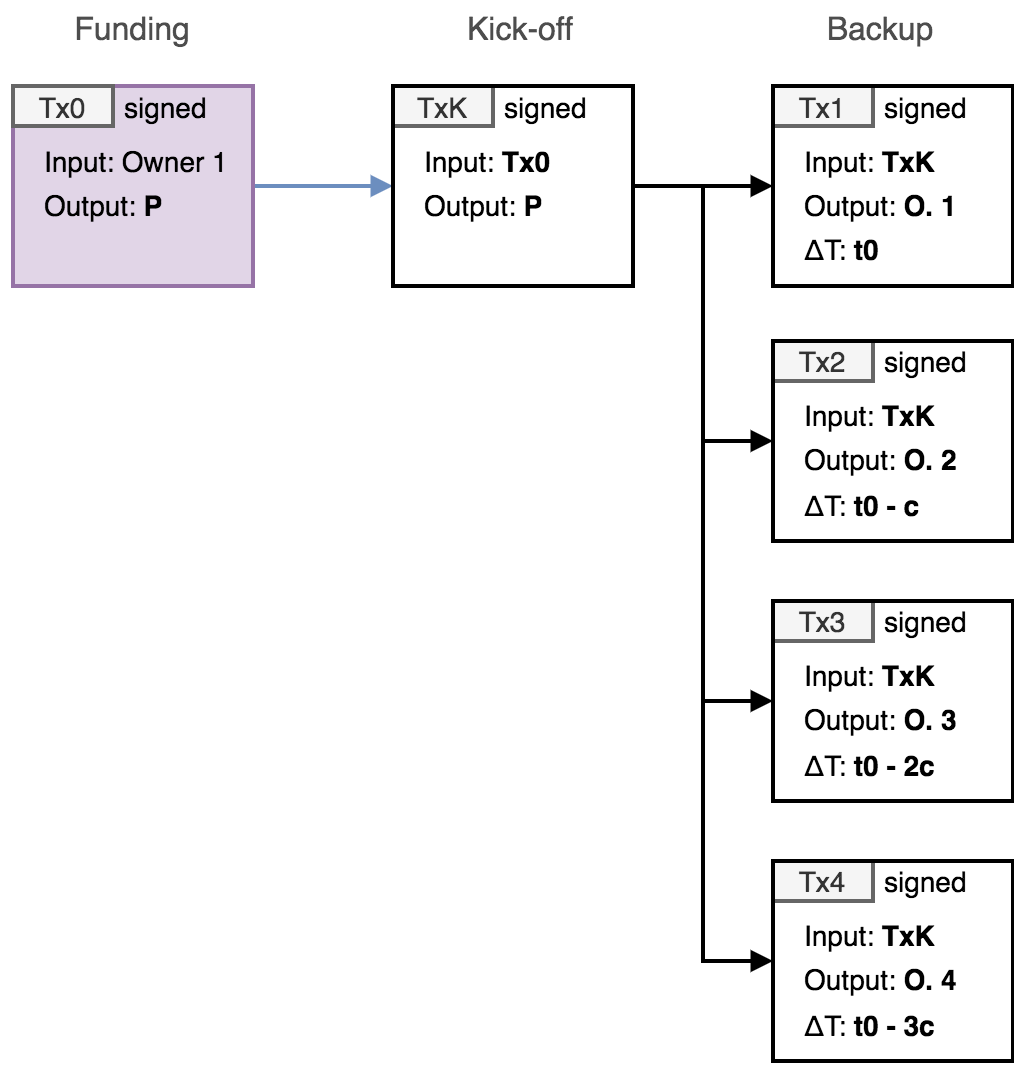
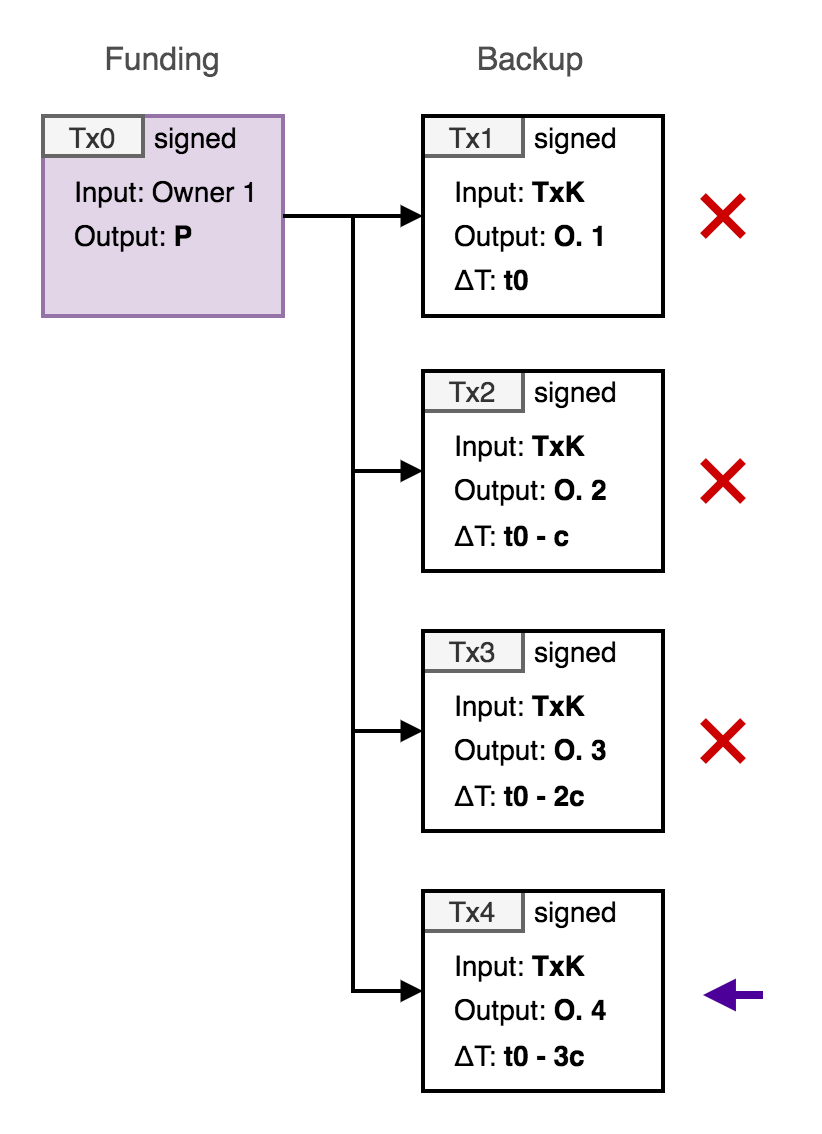
spec update

Changed region(s): [[0.0, 0.0, 1.0, 1.0]]

diff --git a/doc/statechains.md b/doc/statechains.md
@@ -1,4 +1,4 @@
-# Mercury statechain protocol
+# Mercury statechain protocol specification
 
 This document describes the specification and operation of the Mercury **statechain** [1] system to tranfer ownership of Bitcoin (or Elements based) *unspent transaction outputs* (UTXOs) between parties without performing on-chain transactions. The ability to perform this transfer without requiring the confirmation (mining) of on-chain transactions has several advantages in a variety of different applications:
 
@@ -12,44 +12,32 @@ This functionality requires a trusted third party - refered to as the *statechai
 
 A UTXO is the fundamental object that defines value and ownership in a cryptocurrency such as Bitcoin. A UTXO is identified by a transaction ID (`TxID`) and output index number (`n`) and has two properties: 1. A value (in BTC) and 2. Spending conditions (defined in Script). The spending conditions can be arbitrarily complex (within the limits of the consensus rules), but is most commonly defined by a single public key (or public key hash) and can only be spent by transaction signed with the corresponding public key. This is known as a pay-to-public-key-hash output (P2(W)PKH). Other more complex spending conditions include multisig outputs (where spending transactions need to be signed by `m` public keys where `n >= m` are specified in the spending conditions) and time-locked and hash-locked outputs (inlcuding HTLCs as utilised by the Lightning Network and DLCs). 
 
-The statechain model described here can be used to transfer the ability to sign a single public key spending condition or one part of a 2-of-2 multisig, allowing for the transfer (novation) of DLC counterparty positions or Lightning channels. 
+The statechain model described here can be used to transfer the ability to sign a single public key spending condition between parties, or one part of a 2-of-2 multisig, allowing for the transfer (novation) of DLC counterparty positions or Lightning channels. 
 
 ## P2PKH output transfer
 
-The simplest function of the Mercury system is to enable the transfer the ownership of individual UTXOs controlled by a single public key `P` from one party to another without an on-chain (Bitcoin) transaction. The SE facilitates this change of ownership, but has no way to seize, confiscate or freeze the output. To enable this, the private key for `P` is shared between the SE and the owner, such that no party ever has knowledge of the full private key (which is `s1*o1` where `s1` is the SE private key share, and `o1` is the owner key share) and so cooperation of the owner is required to spend the UTXO. However, by sharing the secret key in this way, the SE can change its key share (`s1 -> s2`) so that it combines with a new owner key share (`o2`) with the cooperation of the original owner without changing the full key (i.e. `s1*o1 = s2*o2`) all without any party revealing their key shares or learning the full key. The exclusive control of the UTXO then passes to the new owner without an on-chain transaction, and the SE only needs to be trusted to follow the protocol and delete/overwrite the key share corresponding to the previous owner. 
+The simplest function of the Mercury system is to enable the transfer the ownership of individual UTXOs controlled by a single public key `P` from one party to another without an on-chain (Bitcoin) transaction (or change in the spending condition). The SE facilitates this change of ownership, but has no way to seize, confiscate or freeze the output. To enable this, the private key (`s`) for `P` (where `P = s.G`) is shared between the SE and the owner, such that neither party ever has knowledge of the full private key (which is `s = s1*o1` where `s1` is the SE private key share, and `o1` is the owner key share) and so cooperation of the owner and SE is required to spend the UTXO. However, by sharing the secret key in this way, the SE can change its key share (`s1 -> s2`) so that it combines with a new owner key share (`o2`) with the cooperation of the original owner, but without changing the full key (i.e. `s1*o1 = s2*o2`) all without any party revealing their key shares or learning the full key. The exclusive control of the UTXO then passes to the new owner without an on-chain transaction, and the SE only needs to be trusted to follow the protocol and delete/overwrite the key share corresponding to the previous owner. 
 
-This key update/transfer mechanism can additionally be combined with a system of *backup* transactions which can be used to claim the value of the UTXO by the current owner in the case the SE does not cooperate or has disappeared. The backup transactions are cooperatively signed by the owners and the SE at the point of transfer, and consist of a *kickoff* transaction (which initiates the timelocks) which can be spent by a second transaction with a relative time-lock (using the `nSequence` field as described in BIP68 [2]) paying to an owner generated address [3]. Each new owner is given the same kick-off transaction and a second signed transaction (paying to the new owner address) with a lower `nSequence` number than the previous owner (allowing them to claim the output of the kickoff transaction before any previous owner). 
-
-<br><br>
-<p align="center">
-<img src="images/fig1.png" align="middle" width="440" vspace="20">
-</p>
-
-<p align="center">
-  <b>Fig. 1</b>: Schematic of confirmed funding transaction, and off-chain signed kick-off transaction and backup transactions for a sequence of 4 owners. 
-</p>
-<br><br>
-
-As each previous owner will posses a signed copy of the kickoff transaction, any of these old owners can broadcast it to initiate the backup process, forcing the close of the UTXO and presenting a DoS risk (even though they will not be able to steal the funds). To provide an incentive against this, an anyone-can-spend (OP_TRUE) output can be added to the kickoff transaction (with a dust limit amount) and zero miner fee: this means that for an owner (current or old) to broadcast (and confirm) the kickoff transaction, they must at the same time send a second transaction that spends the anyone-can-spend output and that has sufficient fee to pay for both transactions (via Child Pays For Parent - CPFP). 
+This key update/transfer mechanism is additionally be combined with a system of *backup* transactions which can be used to claim the value of the UTXO by the current owner in the case the SE does not cooperate or has disappeared. The backup transaction is cooperatively signed by the current owner and the SE at the point of transfer, paying to an address controlled by the new owner. To prevent a previous owner (i.e. not the current owner) from broadcasting their backup transaction and stealing the deposit, the `nLocktime` value of the transaction is set to a future specified block height. Each time the ownership of the UTXO is transfered, the `nLocktime` is decremented by a specified value, therefore enabling the current owner to claim the deposit before any of the previous owners. 
 
 <br><br>
 <p align="center">
-<img src="images/fig2.png" align="middle" width="440" vspace="20">
+<img src="images/fig1.png" align="middle" width="350" vspace="20">
 </p>
 
 <p align="center">
-  <b>Fig. 2</b>: Schematic of the kick-off transaction requiring an additional CPFP spending transaction paying fees. 
+  <b>Fig. 1</b>: Schematic of confirmed funding transaction, and off-chain signed backup transactions with decrementing nLocktime for a sequence of 4 owners. 
 </p>
 <br><br>
 
-The decrementing relative timelock backup mechanism limits the number of tranfers that can be made within a reasonable lock-out time. This limitation can be substantially improved using an 'invalidation tree' structure of sequential transactions as described in [3]. 
+The decrementing timelock backup mechanism limits the number of tranfers that can be made within a reasonable lock-out time, and will be specified and enforced by the SE. In order to ensure that the valid backup transaction is broadcast to the Bitcoin network at the correct time, and prevent expired owners from attmepting to steal funds, the SE operates multiple *watch* servers that monitor the block height and send user backup transactions when required. If the SE is shut down then the user is responsible for submitting backup transactions to the Bitcoin network at the correct time, and applications are available to do this automatically. 
 
 The life-cycle of a P2PKH deposit into the statechain, transfer and withdrawal is summarised as follows:
 
-1. The depositor (Owner 1) initiates a UTXO statechain with the SE by paying BTC to a P2PKH address where Owner 1 and the SE share the private key required to spend the UTXO. Additionally, the SE and the depositor can cooperate to sign a kick-off and backup transaction spending the UTXO to a relative timelocked transaction spending to an address controlled by Owner 1 which can be confirmed after the `nSequence` locktime in case the SE stops cooperating. 
-3. Owner 1 can verifiably transfer ownership of the UTXO to a new party (Owner 2) via a key update procedure that overwrites the private key share of SE that invalidates the Owner 1 private key and *activates* the Owner 2 private key share. Additionally, the transfer can incorporate the cooperative signing of a new backup transaction paying to an address controlled by Owner 2 which can be confirmed after an `nSequence` locktime, which is shorted (by an accepted confirmation interval) than the previous owner. 
-5. This transfer can be repeated multiple times to new owners as required (up until the most recent recovery relative locktime reaches a limit > 0). 
-6. At any time the most recent owner and SE can cooperate to sign a transaction spending the UTXO to an address of the most recent owner's choice (withdrawal). 
+1. The depositor (Owner 1) initiates a UTXO statechain with the SE by paying BTC to a P2PKH address where Owner 1 and the SE share the private key required to spend the UTXO. Additionally, the SE and the depositor can cooperate to sign a backup transaction spending the UTXO to a relative timelocked transaction spending to an address controlled by Owner 1 which can be confirmed after the `nLocktime` block height in case the SE stops cooperating. 
+3. Owner 1 can verifiably transfer ownership of the UTXO to a new party (Owner 2) via a key update procedure that overwrites the private key share of SE that invalidates the Owner 1 private key and *activates* the Owner 2 private key share. Additionally, the transfer can incorporate the cooperative signing of a new backup transaction paying to an address controlled by Owner 2 which can be confirmed after an `nLocktime` block height, which is shortened (by an accepted confirmation interval) than the previous owner. 
+5. This transfer can be repeated multiple times to new owners as required (up until the most recent recovery `nLocktime` reaches a lower limit determined by the current Bitcoin block height). 
+6. At any time the most recent owner and SE can cooperate to sign a transaction spending the UTXO to an address of the most recent owner's choice (i.e. withdrawal). 
 
 <br><br>
 <p align="center">
@@ -139,17 +127,15 @@ An owner wants to deposit an amount of BTC into the platform, and they request t
 3. The SE then generates a private key: `s1` (the SE private key share), calculates the corresponding public key and sends it to Owner 1: `S1 = s1.G`
 4. Both SE and Owner 1 then multiply the public keys they receive by their own private key shares to obtain the same shared public key `P` (which corresponds to a shared private key of `p = o1*s1`): `P = o1.(s1.G) = s1.(o1.G)`
 
-> The above key sharing scheme is the same as that used in the 2P ECDSA protocols [4,5]. The key generation routines of these existing 2P ECDSA implementations can be used in place of the above steps (which can include additional verification and proof steps). 
+> The above key sharing scheme is the same as that used in the 2P ECDSA protocols [4,5]. The key generation routines of these existing 2P ECDSA implementations can be used in place of the above steps (which include additional verification and proof steps). 
 
-5. Owner 1 creates a funding transaction (`Tx0`) to pay an amount `A` to the address corresponding to `P` (but doesn't sign it) [this transaction may also have an output for a fee `F` paid to the SE]. This defines the UTXO `TxID` (the outpoint), which is sent to the SE.
-6. The SE creates a *kick-off transaction* (`TxK`) which spends `Tx0` and pays `A-D` to `P` and `D` to `OP_TRUE` (where `D` is the dust limit) and has zero miner fee. 
-7. Owner 1 and SE cooperatively sign `TxK` via 2P ECDSA. Both parties save this transaction. 
-8. Owner 1 genertes `b1` (the backup private key) and computes `B1 = b1.G`. 
-9. Owner 1 genertes `c1` (the proof private key) and computes `C1 = c1.G`.
-9. Owner 1 creates a *backup transaction* (`Tx1`) that pays the `P` output of `TxK` to `B1`, and sets the `nSequence` to the maximum relative locktime `t0` (according to BIP68). 
-10. SE receives `Tx1` and `C1` from Owner 1 and verifies the `nSequence` field. Owner 1 and the SE then sign `Tx1` with shared key (`P`) via 2P ECDSA, which Owner 1 then saves. 
-11. Owner 1 then signs and broadcasts their deposit transaction `Tx0`. Once the transaction is confirmed, the deposit is completed. 
-12. The SE then adds the public key `C1` to leaf of the SMT at position TxID of `Tx0`. The root of the SMT is then attested to Bitcoin via the Mainstay protocol in slot `slot_id`. 
+5. Owner 1 genertes `b1` (the backup private key) and computes `B1 = b1.G`. 
+6. Owner 1 genertes `c1` (the proof private key) and computes `C1 = c1.G`.
+7. Owner 1 creates a funding transaction (`Tx0`) to pay an amount `A` to the address corresponding to `P` (but doesn't sign it) [this transaction may also have an output for a fee `F` paid to the SE]. This defines the UTXO `TxID` (the outpoint), which is sent to the SE.
+8. Owner 1 creates a *backup transaction* (`Tx1`) that pays the `P` output of `Tx0` to `B1`, and sets the `nLocktime` to the initial future block height `h0` (where `h0 = cheight + hinit`, `cheight` is the current Bitcoin block height and `hinit` is the specified initial locktime). 
+9. SE receives `Tx1` and `C1` from Owner 1 and verifies the `nLocktime` field. Owner 1 and the SE then sign `Tx1` with shared key (`P`) via 2P ECDSA, which Owner 1 then saves. 
+10. Owner 1 then signs and broadcasts their deposit transaction `Tx0`. Once the transaction is confirmed, the deposit is completed. 
+11. The SE then adds the public key `C1` to leaf of the SMT at position TxID of `Tx0`. The root of the SMT is then attested to Bitcoin via the Mainstay protocol in slot `slot_id`. 
 
 <br><br>
 <p align="center">
@@ -161,7 +147,7 @@ An owner wants to deposit an amount of BTC into the platform, and they request t
 </p>
 <br><br>
 
-This deposit protocol is designed so that no funds are lost if either party becomes uncooperative at any stage. The deposit is only paid to the shared public key once the kick-off and backup transactions are signed. 
+This deposit protocol is designed so that no funds are lost if either party becomes uncooperative at any stage. The deposit is only paid to the shared public key once the backup transaction is signed. 
 
 ### Transfer
 
@@ -173,17 +159,16 @@ Owner 1 wishes to transfer the value of the deposit `A` to a new owner (Owner 2)
 4. SE generates a random key `x1` and encrypts it with the Owner 2 statechain public key: `Enc(x1,C1)`
 5. `Enc(x1,C1)` is sent to Owner 1 who decrypts it with `c1` to learn `x1`: `Dec(x1,c1)`
 6. Owner 1 then computes `o1*x1` and encrypts it with the Owner 2 statechain public key (from the address): `Enc(o1*x1,C2)`
-7. Owner 1 creates a new *backup transaction* (`Tx2`) that pays the `P` output of `TxK` to `B2`, and sets the `nSequence` to the relative locktime `t0 - (n-1)*c` (according to BIP68) where `c` is the confirmation interval and `n` is the owner number (i.e. 2). 
-8. The SE receives `Tx2` and verifies the `nSequence` field corresponds to `t0 - (n-1)*c`. Owner 1 and the SE then sign `Tx2` with shared key (`P`) via 2P ECDSA, which Owner 1 then saves. 
+7. Owner 1 creates a new *backup transaction* (`Tx2`) that pays the `P` output of `Tx0` to `B2`, and sets the `nLocktime` to the relative locktime `h0 - (n-1)*c` where `c` is the confirmation interval and `n` is the owner number (i.e. 2). 
+8. The SE receives `Tx2` and verifies the `nLoctime` field corresponds to `h0 - (n-1)*c`. Owner 1 and the SE then sign `Tx2` with shared key (`P`) via 2P ECDSA, which Owner 1 then saves. 
 
 > The steps 3-8 only require interaction between the SE and owner 1, and can be performed at any time before the involvement of Owner 2 is required. 
 
 9. Owner 1 retrieves the UTXO statechain (ownership sequence) for `Tx0` and signs ownership to `C2` with private key `c1`: this is `SCTx1`
 10. Owner 1 then sends Owner 2 a message containing four objects:
-	a. `TxK`
-	b. `Tx2`
-	c. `SCTx1`
-	d. `Enc(o1*x1,C2)`
+	a. `Tx2`
+	b. `SCTx1`
+	c. `Enc(o1*x1,C2)`
 
 > At this point the Owner 1 has sent all the information required to complete the transfer to Owner 2 and is no longer involved in the protocol. Owner 2 verifies the correctness and validity of the four objects, and the payment is complete. Owner 1 can then complete the key update with the SE at any time. 
 
@@ -211,7 +196,7 @@ The SE key share update then proceeds as follows:
 </p>
 <br><br>
 
-> The SE can keep a database of backup transactions for the users, and broadcast them at the appropriate time in case the users are off-line. Alternatively this can be outsourced to a 'watchtower-like' third party. 
+> The SE keeps a database of backup transactions for the users, and broadcast them at the appropriate time in case the users are off-line. 
 
 ### Orderly Withdrawal
 
@@ -238,52 +223,6 @@ This would proceed as follows:
 
 > The owner must ensure they broadcast the backup transaction immediately after the timelock to prevent previous owners from claiming after longer timeouts. 
 
-### Backup attack
-
-Every previous owner of a statechain UTXO has a signed kick-off transaction, and a signed backup transaction with a longer `nSequence` timelock than the current owner. Any one of these previous owners can broadcast the kick-off transaction at any time in an attempt to steal the UTXO funds. So long as the current owner is watching the Bitcoin UTXO set (or has outsourced this to a watchtower), then the currrent owner will always be able to spend the kick-off output with their backup transaction before a previous owner. 
-
-However, this does present a mechanism for a previous owner to harrass the current owner and cause a denial of service. Past owners are incentivised against doing this, as the past owner has to pay twice for the kick-off transaction fees (via CPFP), however there is nothing to prevent it. In the case this does occur (and the SE is still operational), firstly the SE will act as a watchtower and ensure the current owners backup transaction is confirmed. Secondly, the SE will alert the current owner to the broadcast, and will cooperatively sign a transaction to spend the `TxK` `P` output immediately (before any backup transactions become valid) paying either to an address of the owners choosing, or `P` (initiating a new statechain). 
-
-## DLC novation
-
-The ownership of a position in a discreet log contract (DLC) can be transferred using this same basic mechanism, but with the key rotation and backup transactions applied to every output of the multiple Contract Execution Transactions (CETs) of the DLC. The essential protocol is summarised as follows:
-
-Either, or both, of the counterparties in a specific DLC can utilise the SE for novation, and this requires no changes to the DLC protocol. In fact, if one counterparty is using an SE service for novation, the other counterparty does not even need to be aware of this or of any of the changes of ownership. In the following, we decribe the set-up for one counterparty using the service. 
-
-### Initialisation
-
-A user wants to initiate a DLC using the SE service for novation. The following steps are followed as part of the DLC creation process:
-
-1. The first position owner (Owner 1) generates two private keys: `o1` (the UTXO private key share) and `b1` (the backup private key).
-2. Owner 1 then calculates the corresponding public key of the share `O1` and sends it to the SE: `O1 = o1.G`
-3. The SE then generates a private key: `s1` (the SE private key share), calculates the corresponding public key and sends it to Owner 1: `S1 = s1.G`
-4. Both SE and Owner 1 then multiply the public keys they receive by their own private key shares to obtain the same shared public key `P` (which corresponds to a shared private key of `p = o1*s1`): `P = o1.(s1.G) = s1.(o1.G)`
-5. Owner 1 and the DLC counterparty create the DLC funding transaction `Tx0` (with supplied inputs) to pay an amount `A` to a 2-of-2 multisig (one public key `P` and the other public key belonging to the counterpary's - `C`. This defines the opening UTXO (the outpoint). 
-6. The Owner 1 and the counterparty cooperate to generate the full set of unsigned CETs following the DLC protocol [6]: `TxDLC[i]` where `i = 1,...,n`, after agreeing on an oracle public key `O`. The counterparty partially signs all of them (1-of-2) and sends them to Owner 1. 
-7. Owner 1 and the SE then coorperate to partially sign (1-of-2) the full set of CETs with the shared key `P` with 2P ECDSA and sends them to the counterparty. 
-8. The SE creates a series of *kick-off transactions* that spend from the outputs that pay to `P` from the full set of CETs (two for each CET):  `TxK[i,1]` and `TxK[i,2]` where `i = 1,...,n`. 
-9. Owner 1 and the SE cooperatively sign each `TxK` via 2P ECDSA. Both parties save these transactions. 
-10. Owner 1 genertes `b1` (the backup private key) and computes `B1 = b1.G`.
-11. Owner 1 creates a series of *backup transactions* for each kick-off transaction that pays the `P` output of each `TxK` to `B1`, and sets the `nSequence` to the maximum relative locktime `t0` (according to BIP68): `Tx1[i,1]` and `Tx1[i,2]` where `i = 1,...,n`. These are sent to the SE. 
-10. The SE recieves all `Tx1[i,1]` and `Tx1[i,2]` where `i = 1,...,n` and verifies the `nSequence` field of each one. Owner 1 and the SE then sign each `Tx1` with shared key (`P`) via 2P ECDSA, which Owner 1 then saves. 
-10. Owner 1 then co-signs (with the couterparty) and broadcasts the deposit/opening transaction `Tx0`. Once the transaction is confirmed, the deposit is completed. 
-11. The SE then adds the UTXO outpoint with `O1` to the *statechain* which is then attested to Bitcoin via the Mainstay protocol. 
-
-### Transfer
-
-Owner 1 wishes to transfer their position in the DLT to a new owner (Owner 2) (as a payment or as part of a complex trade). For this to proceed, the new owner must be aware of the public key that is used to authenticate the SE (`SE`). The new owner may require the current owner prove their unique ownership by signing a message with their key share (`O1`) as published on the statechain. The protocol then proceeds as follows:
-
-Steps 1-14 in the transfer section above are followed to transfer the shared key. Then the following steps are followed:
-1. The SE sends Owner 2 the full set of signed kick-off transactions `TxK[i,1]` and `TxK[i,2]` where `i = 1,...,n`. 
-2. Owner 2 creates a series of *backup transactions* for each kick-off transaction that pays the `P` output of each `TxK` to `B2`, and sets the `nSequence` to the maximum relative locktime `t0 - c` (according to BIP68): `Tx2[i,1]` and `Tx2[i,2]` where `i = 1,...,n`. These are sent to the SE. 
-10. The SE recieves all `Tx2[i,1]` and `Tx2[i,2]` where `i = 1,...,n` and verifies the `nSequence` field of each one. Owner 2 and the SE then sign each `Tx2` with shared key (`P`) via 2P ECDSA, which Owner 2 then saves. 
-18. The SE then adds the UTXO outpoint with public key `O2` to the statechain which is then attested to Bitcoin via the Mainstay protocol. 
-
-This can then be repeated to transfer the DLC position to each new owner. 
-
-### DLC closure
-
-Once the oracle publishes the signature at the expiration of the DLC, making one of the CETs valid (`TxCET[j]`) - one of the counterparties submit their valid transaction (OR they can cooperate the sign a separate transaction that pays directly to each party's wallet address - this would also require the cooperation of the SE for the current Owner to sign their part of the opening/deposit transaction). If a CET is broadcast (and confirmed), the SE and the current owner can then cooperate to 'withdraw' the output from the CET (or if the SE is not-responsive, then the current owner can submit the corresponding kick-off backup transaction `TxK[j,1]` and after the timelock `Tx2[j,1]` to claim the CET output). If the SE is unresponsive AND the counterparty broadcasts an invalid state, the kick-off backup transaction `TxK[j,2]` can be broadcast followed by the backup transaction `Tx2[j,2]` after the timelock. 
 
 [1] https://github.com/RubenSomsen/rubensomsen.github.io/blob/master/img/statechains.pdf
 

diff --git a/doc/dlcs.md b/doc/dlcs.md
@@ -1,0 +1,40 @@
+# DLC novation
+
+The ownership of a position in a discreet log contract (DLC) can be transferred using this same basic mechanism, but with the key rotation and backup transactions applied to every output of the multiple Contract Execution Transactions (CETs) of the DLC. The essential protocol is summarised as follows:
+
+Either, or both, of the counterparties in a specific DLC can utilise the SE for novation, and this requires no changes to the DLC protocol. In fact, if one counterparty is using an SE service for novation, the other counterparty does not even need to be aware of this or of any of the changes of ownership. In the following, we decribe the set-up for one counterparty using the service. 
+
+## Initialisation
+
+A user wants to initiate a DLC using the SE service for novation. The following steps are followed as part of the DLC creation process:
+
+1. The first position owner (Owner 1) generates two private keys: `o1` (the UTXO private key share) and `b1` (the backup private key).
+2. Owner 1 then calculates the corresponding public key of the share `O1` and sends it to the SE: `O1 = o1.G`
+3. The SE then generates a private key: `s1` (the SE private key share), calculates the corresponding public key and sends it to Owner 1: `S1 = s1.G`
+4. Both SE and Owner 1 then multiply the public keys they receive by their own private key shares to obtain the same shared public key `P` (which corresponds to a shared private key of `p = o1*s1`): `P = o1.(s1.G) = s1.(o1.G)`
+5. Owner 1 and the DLC counterparty create the DLC funding transaction `Tx0` (with supplied inputs) to pay an amount `A` to a 2-of-2 multisig (one public key `P` and the other public key belonging to the counterpary's - `C`. This defines the opening UTXO (the outpoint). 
+6. The Owner 1 and the counterparty cooperate to generate the full set of unsigned CETs following the DLC protocol [6]: `TxDLC[i]` where `i = 1,...,n`, after agreeing on an oracle public key `O`. The counterparty partially signs all of them (1-of-2) and sends them to Owner 1. 
+7. Owner 1 and the SE then coorperate to partially sign (1-of-2) the full set of CETs with the shared key `P` with 2P ECDSA and sends them to the counterparty. 
+8. The SE creates a series of *kick-off transactions* that spend from the outputs that pay to `P` from the full set of CETs (two for each CET):  `TxK[i,1]` and `TxK[i,2]` where `i = 1,...,n`. 
+9. Owner 1 and the SE cooperatively sign each `TxK` via 2P ECDSA. Both parties save these transactions. 
+10. Owner 1 genertes `b1` (the backup private key) and computes `B1 = b1.G`.
+11. Owner 1 creates a series of *backup transactions* for each kick-off transaction that pays the `P` output of each `TxK` to `B1`, and sets the `nSequence` to the maximum relative locktime `t0` (according to BIP68): `Tx1[i,1]` and `Tx1[i,2]` where `i = 1,...,n`. These are sent to the SE. 
+10. The SE recieves all `Tx1[i,1]` and `Tx1[i,2]` where `i = 1,...,n` and verifies the `nSequence` field of each one. Owner 1 and the SE then sign each `Tx1` with shared key (`P`) via 2P ECDSA, which Owner 1 then saves. 
+10. Owner 1 then co-signs (with the couterparty) and broadcasts the deposit/opening transaction `Tx0`. Once the transaction is confirmed, the deposit is completed. 
+11. The SE then adds the UTXO outpoint with `O1` to the *statechain* which is then attested to Bitcoin via the Mainstay protocol. 
+
+## Transfer
+
+Owner 1 wishes to transfer their position in the DLT to a new owner (Owner 2) (as a payment or as part of a complex trade). For this to proceed, the new owner must be aware of the public key that is used to authenticate the SE (`SE`). The new owner may require the current owner prove their unique ownership by signing a message with their key share (`O1`) as published on the statechain. The protocol then proceeds as follows:
+
+Steps 1-14 in the transfer section above are followed to transfer the shared key. Then the following steps are followed:
+1. The SE sends Owner 2 the full set of signed kick-off transactions `TxK[i,1]` and `TxK[i,2]` where `i = 1,...,n`. 
+2. Owner 2 creates a series of *backup transactions* for each kick-off transaction that pays the `P` output of each `TxK` to `B2`, and sets the `nSequence` to the maximum relative locktime `t0 - c` (according to BIP68): `Tx2[i,1]` and `Tx2[i,2]` where `i = 1,...,n`. These are sent to the SE. 
+10. The SE recieves all `Tx2[i,1]` and `Tx2[i,2]` where `i = 1,...,n` and verifies the `nSequence` field of each one. Owner 2 and the SE then sign each `Tx2` with shared key (`P`) via 2P ECDSA, which Owner 2 then saves. 
+18. The SE then adds the UTXO outpoint with public key `O2` to the statechain which is then attested to Bitcoin via the Mainstay protocol. 
+
+This can then be repeated to transfer the DLC position to each new owner. 
+
+## DLC closure
+
+Once the oracle publishes the signature at the expiration of the DLC, making one of the CETs valid (`TxCET[j]`) - one of the counterparties submit their valid transaction (OR they can cooperate the sign a separate transaction that pays directly to each party's wallet address - this would also require the cooperation of the SE for the current Owner to sign their part of the opening/deposit transaction). If a CET is broadcast (and confirmed), the SE and the current owner can then cooperate to 'withdraw' the output from the CET (or if the SE is not-responsive, then the current owner can submit the corresponding kick-off backup transaction `TxK[j,1]` and after the timelock `Tx2[j,1]` to claim the CET output). If the SE is unresponsive AND the counterparty broadcasts an invalid state, the kick-off backup transaction `TxK[j,2]` can be broadcast followed by the backup transaction `Tx2[j,2]` after the timelock. 
